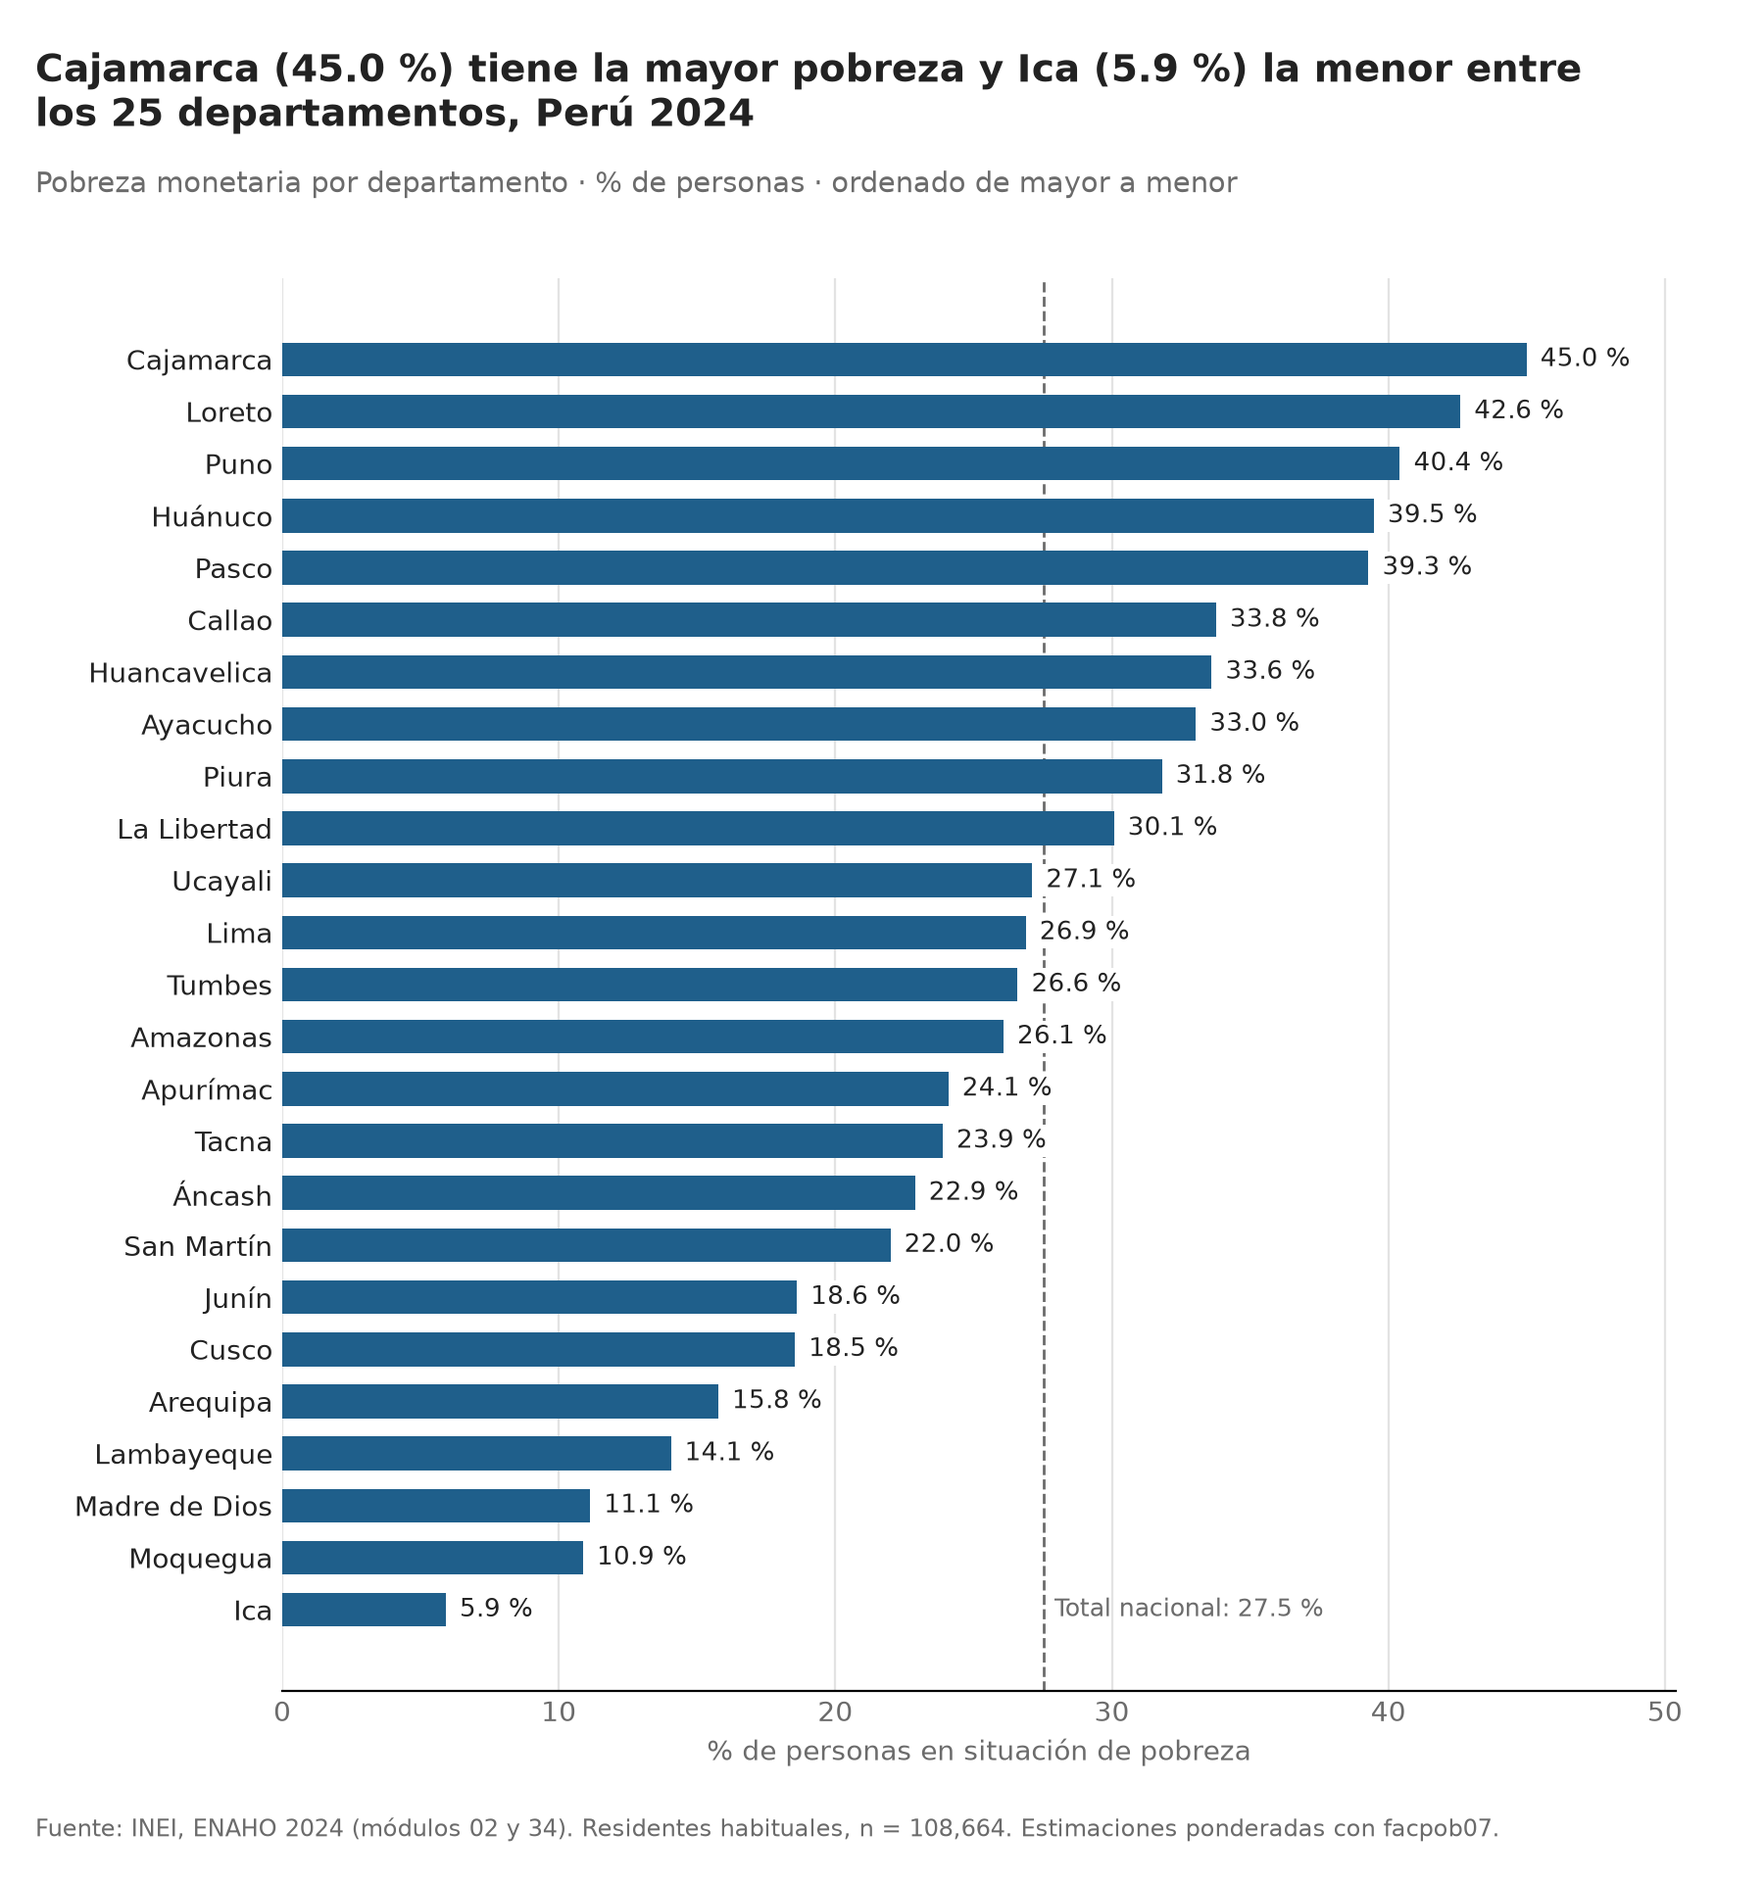
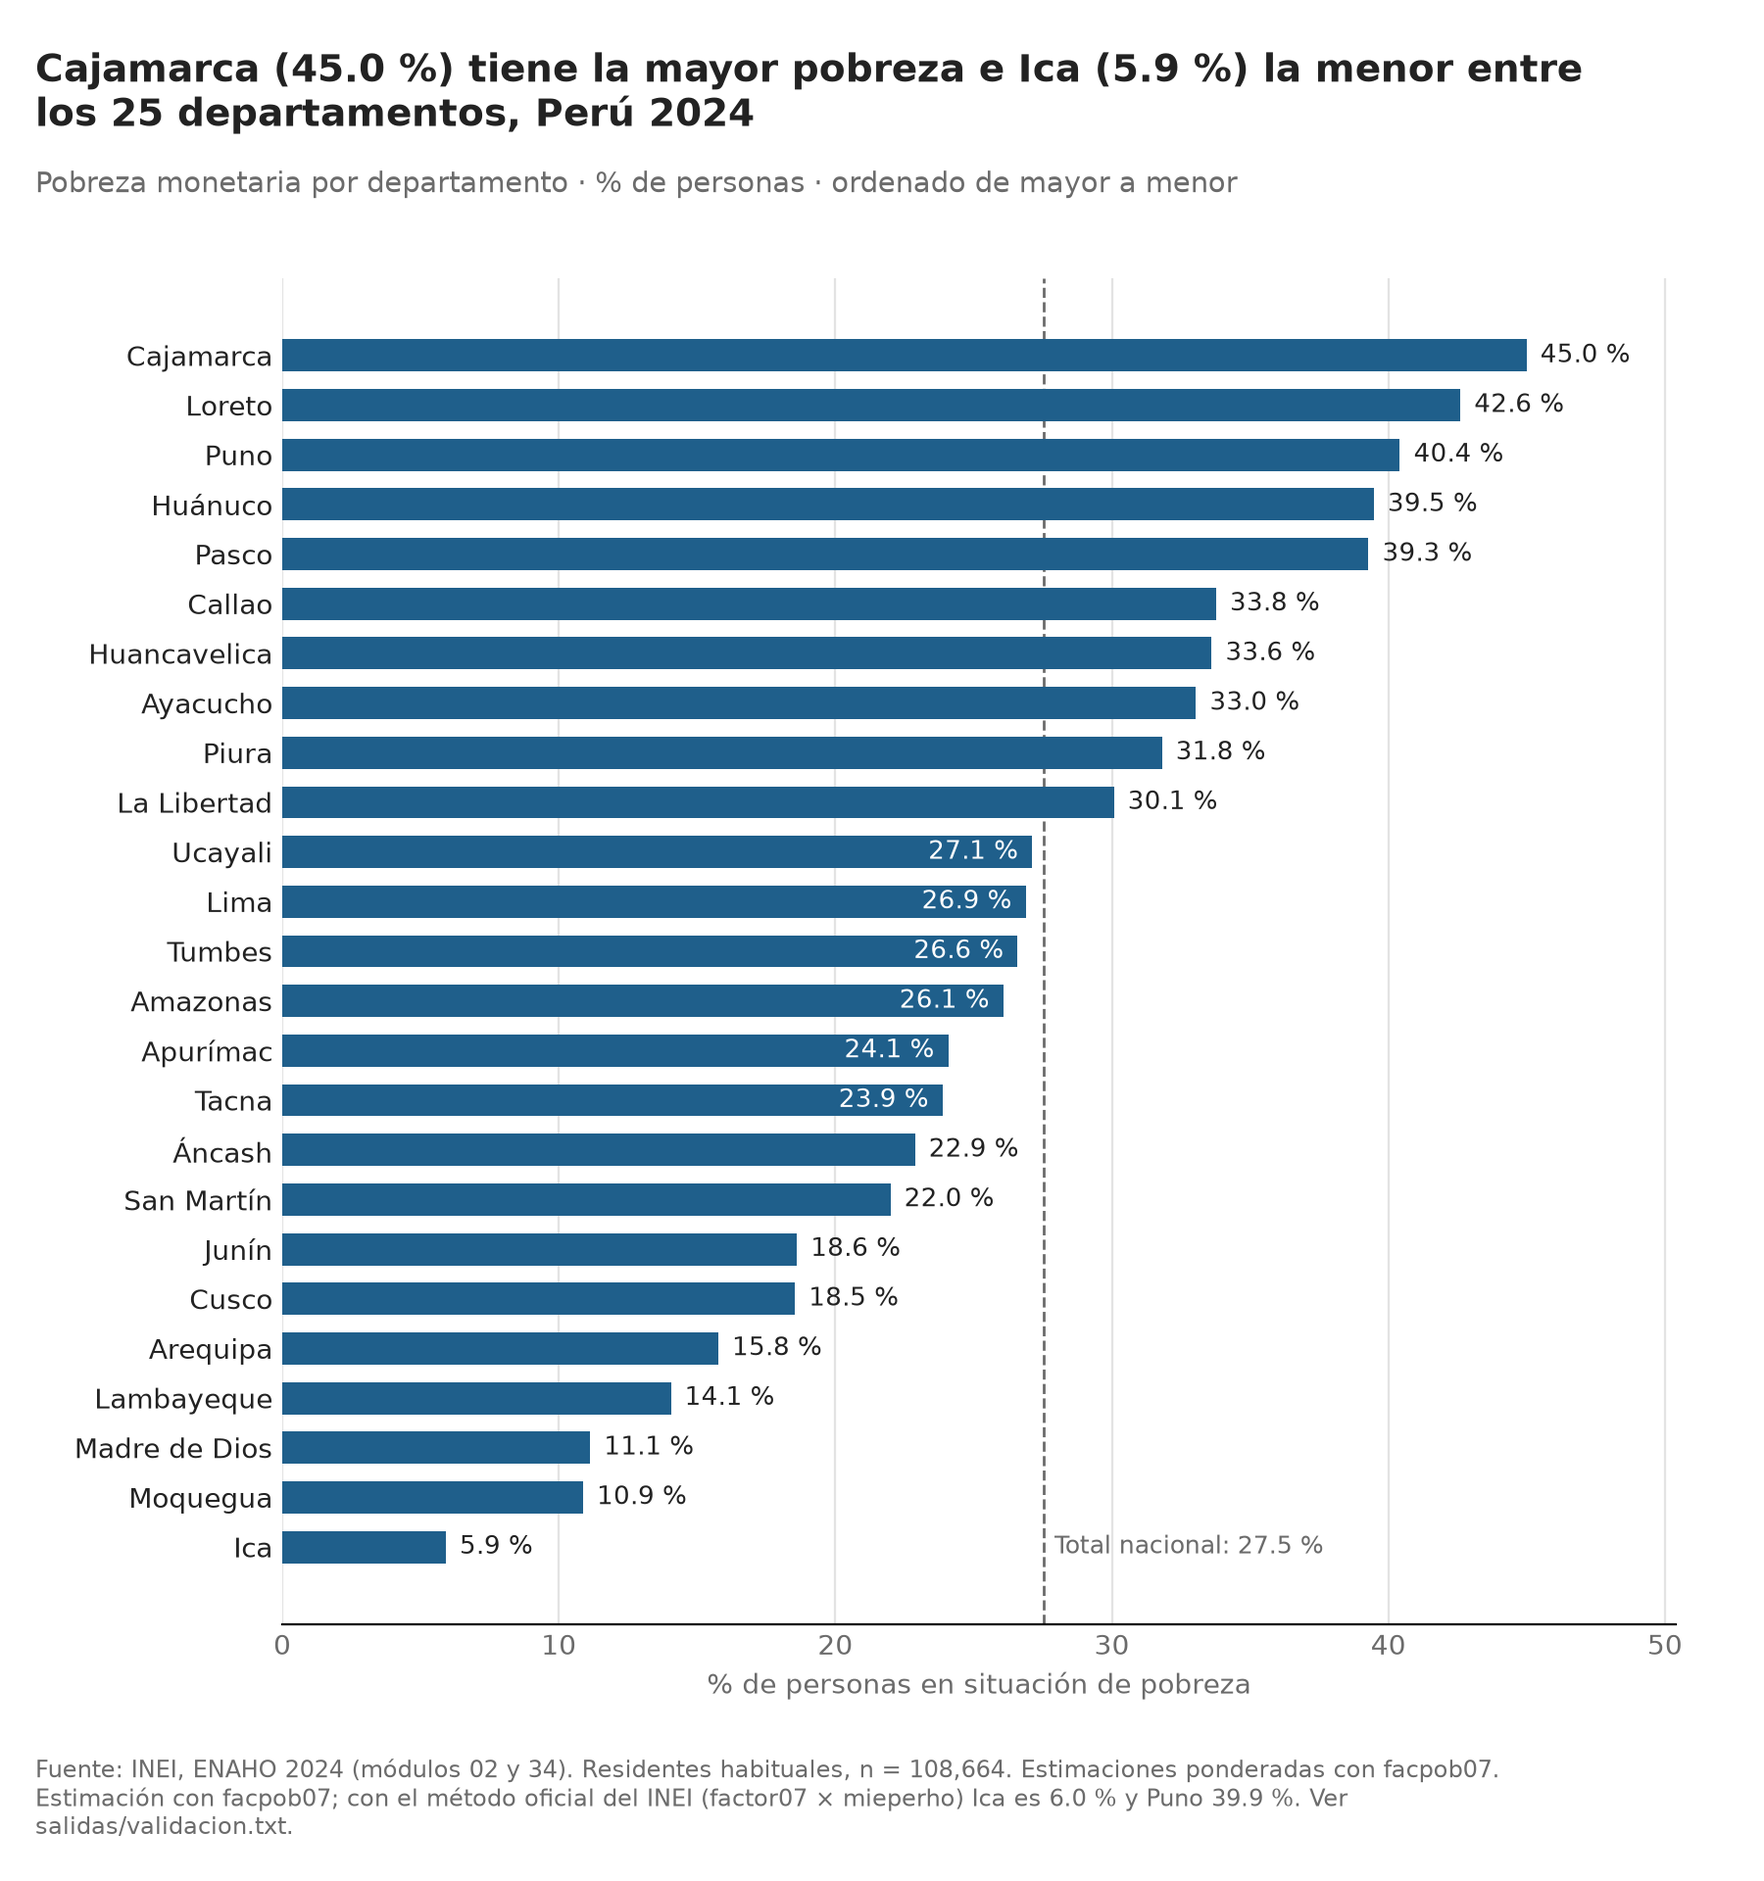
Tarea 4: figuras con n real, etiquetas sin choques, nota de método y conjunción e/y (#11)

diff --git a/tarea_4/.claude/skills/graficando-enaho/scripts/graficar.py b/tarea_4/.claude/skills/graficando-enaho/scripts/graficar.py
@@ -4,12 +4,15 @@
 
 Todas las cifras se ponderan con facpob07 (porcentaje de personas). Barras desde cero, un solo
 color, valor en cada barra, título analítico, fuente al pie. PNG a 200 dpi en --figuras.
+Ninguna etiqueta de valor queda sobre la línea del total nacional: el script lo verifica y falla si no.
 """
 from __future__ import annotations
 
 import argparse
+import re
 import sys
 import textwrap
+import unicodedata
 from pathlib import Path
 
 import matplotlib
@@ -37,8 +40,20 @@ def nombre(cod: str) -> str:
     return NOMBRES.get(n, n.title())
 
 
-def pct(x: float) -> str:
-    return f"{x:.1f}".replace(".", ",") if False else f"{x:.1f} %"
+def y_o_e(siguiente: str) -> str:
+    """'e' si la palabra siguiente empieza con 'i' o con 'hi' + consonante; en otro caso 'y'.
+
+    Regla del proyecto: Ica -> 'e Ica'; Hilda -> 'e Hilda'; Ayacucho, Huánuco -> 'y'.
+    (Casos con diptongo, como 'hielo' o 'hierro', conservan 'y'; no aparecen en nombres de departamento.)
+    """
+    s = unicodedata.normalize("NFD", siguiente.strip().lower())
+    s = "".join(c for c in s if unicodedata.category(c) != "Mn")
+    return "e" if re.match(r"(i|hi(?![aeiou]))", s) else "y"
+
+
+def nota_fuente(anio: int, n: int, extra: str = "") -> str:
+    base = f"Fuente: INEI, ENAHO {anio} (módulos 02 y 34). Residentes habituales, n = {n:,}. Estimaciones ponderadas con facpob07."
+    return f"{base} {extra}".strip()
 
 
 def grupo(df: pd.DataFrame, por: str) -> pd.Series:
@@ -71,47 +86,104 @@ def guardar(fig, ruta: Path) -> None:
     print(f"Guardado: {ruta}")
 
 
+# --- colocación de etiquetas sin choques con la línea del total nacional ---------------------------
+MARGEN_PX = 4  # separación mínima entre una etiqueta y la línea, en píxeles de pantalla
+
+
+def _choca(bbox, pos_px: float, eje: str) -> bool:
+    lo, hi = (bbox.y0, bbox.y1) if eje == "y" else (bbox.x0, bbox.x1)
+    return lo - MARGEN_PX <= pos_px <= hi + MARGEN_PX
+
+
+def poner_valor(fig, ax, texto: str, val: float, pos: float, x: float | None = None, y: float | None = None,
+                fontsize: float = 12, bold: bool = True) -> plt.Text:
+    """Escribe el valor de una barra. Prueba: fuera del extremo, dentro de la barra, o más allá de la línea.
+
+    Barras verticales: x = posición de la barra, la línea es horizontal (pos = total nacional en y).
+    Barras horizontales: y = posición de la barra, la línea es vertical (pos = total nacional en x).
+    """
+    r = fig.canvas.get_renderer()
+    vertical = x is not None
+    eje = "y" if vertical else "x"
+    pos_px = ax.transData.transform((0, pos) if vertical else (pos, 0))[1 if vertical else 0]
+    cero_px = ax.transData.transform((0, 0))[1 if vertical else 0]
+    delta = 0.8 if vertical else 0.5
+    if vertical:
+        cands = [(val + delta, "bottom", TEXTO, "fuera"), (val - delta, "top", "white", "dentro"),
+                 (max(val, pos) + 1.5 * delta, "bottom", TEXTO, "sobre la línea")]
+    else:
+        cands = [(val + delta, "left", TEXTO, "fuera"), (val - delta, "right", "white", "dentro"),
+                 (max(val, pos) + delta, "left", TEXTO, "tras la línea")]
+    for coord, alin, color, _ in cands:
+        kw = dict(ha="center", va=alin) if vertical else dict(ha=alin, va="center")
+        t = ax.text(x if vertical else coord, coord if vertical else y, texto, fontsize=fontsize,
+                    fontweight="bold" if bold else "normal", color=color, zorder=5, **kw)
+        bb = t.get_window_extent(r)
+        dentro_ok = (bb.y0 if vertical else bb.x0) >= cero_px - 1 if color == "white" else True
+        if not _choca(bb, pos_px, eje) and dentro_ok:
+            return t
+        t.remove()
+    raise RuntimeError(f"No hay posición sin choque para la etiqueta '{texto}'.")
+
+
+def verificar_sin_choques(fig, ax, etiquetas: list, pos: float, eje: str) -> None:
+    """Falla si alguna etiqueta de valor queda sobre la línea del total nacional."""
+    r = fig.canvas.get_renderer()
+    pos_px = ax.transData.transform((0, pos) if eje == "y" else (pos, 0))[1 if eje == "y" else 0]
+    malas = [t.get_text() for t in etiquetas if _choca(t.get_window_extent(r), pos_px, eje)]
+    if malas:
+        raise RuntimeError(f"Etiquetas sobre la línea del total nacional: {malas}")
+    print(f"  verificado: {len(etiquetas)} etiquetas sin choque con la línea del total nacional")
+
+
 def barras_verticales(df_vals: pd.Series, etiquetas: list[str], titulo: str, subtitulo: str, nota: str,
                       nacional: float, ruta: Path) -> None:
     fig, ax = base_figura(titulo, subtitulo, nota, 7.5, 6)
     x = np.arange(len(df_vals))
     ax.bar(x, df_vals.values, width=0.5, color=COLOR, zorder=3)
-    for xi, val in zip(x, df_vals.values):
-        ax.text(xi, val + 0.8, f"{val:.1f} %", ha="center", va="bottom", fontsize=12, fontweight="bold", color=TEXTO,
-                zorder=5, bbox=dict(facecolor="white", edgecolor="none", pad=1.5))
     ax.axhline(nacional, color=GRIS, lw=1, ls="--", zorder=2)
-    ax.text((len(df_vals) - 1) / 2, nacional + 0.3, f"Total nacional: {nacional:.1f} %", ha="center",
-            va="bottom", fontsize=9, color=GRIS, zorder=5)
-    ax.set_xlim(-0.6, len(df_vals) - 0.4)
+    # Espacio a la derecha para rotular el extremo de la línea fuera de las barras.
+    ax.set_xlim(-0.6, len(df_vals) - 1 + 1.0)
+    ax.set_ylim(0, max(df_vals.max(), nacional) * 1.25)
+    fig.canvas.draw()
+    textos = [poner_valor(fig, ax, f"{v:.1f} %", v, nacional, x=xi) for xi, v in zip(x, df_vals.values)]
+    x_rot = len(df_vals) - 1 + 0.4
+    rot = ax.text(x_rot, nacional + 0.4, f"Total nacional\n{nacional:.1f} %", ha="left", va="bottom",
+                  fontsize=9, color=GRIS, zorder=5, linespacing=1.1)
     ax.set_xticks(x, etiquetas, fontsize=11, color=TEXTO)
-    ax.set_ylim(0, max(df_vals.max(), nacional) * 1.2)
     ax.set_ylabel("% de personas en situación de pobreza", fontsize=10, color=GRIS)
     ax.yaxis.grid(True, color=REJILLA, zorder=0)
     ax.tick_params(axis="y", colors=GRIS, length=0)
     ax.tick_params(axis="x", length=0)
     ax.spines["left"].set_visible(False)
+    fig.canvas.draw()
+    verificar_sin_choques(fig, ax, textos, nacional, "y")
+    r = fig.canvas.get_renderer()
+    rb = rot.get_window_extent(r)
+    if any(rb.overlaps(p.get_window_extent(r)) for p in ax.patches):
+        raise RuntimeError("El rótulo 'Total nacional' se superpone con una barra.")
     guardar(fig, ruta)
 
 
-def grafico_area(df, anio, nota, nacional, carpeta):
+def grafico_area(df, anio, carpeta, nacional):
     urb = df["urbano"]
     vals = pd.Series({"Urbano": tasa_ponderada(df.loc[urb, "pobre"], df.loc[urb, "facpob07"]),
                       "Rural": tasa_ponderada(df.loc[~urb, "pobre"], df.loc[~urb, "facpob07"])})
     dif = vals["Rural"] - vals["Urbano"]
     titulo = f"La pobreza rural ({vals['Rural']:.1f} %) supera en {dif:.1f} puntos porcentuales a la urbana ({vals['Urbano']:.1f} %), Perú {anio}"
-    barras_verticales(vals, list(vals.index), titulo.replace(", Perú", ",\nPerú"),
+    barras_verticales(vals, list(vals.index), titulo,
                       "Pobreza monetaria por área de residencia · % de personas · urbano = estrato 1 a 5",
-                      nota, nacional, carpeta / f"pobreza_urbano_rural_{anio}.png")
+                      nota_fuente(anio, len(df)), nacional, carpeta / f"pobreza_urbano_rural_{anio}.png")
 
 
-def grafico_sexo(df, anio, nota, nacional, carpeta, sexo_de):
+def grafico_sexo(df, anio, carpeta, nacional, sexo_de):
     if sexo_de == "jefe":
         jefes = df.loc[df["p203"] == 1, ["conglome", "vivienda", "hogar", "p207"]].rename(columns={"p207": "sexo_jefe"})
         d = df.merge(jefes, on=["conglome", "vivienda", "hogar"], how="inner", validate="m:1")
         col, etiq = "sexo_jefe", ("Jefe hombre", "Jefa mujer")
         frase = ("las personas en hogares con jefe hombre", "las personas en hogares con jefa mujer")
-        sub = (f"Pobreza monetaria según el sexo de quien jefatura el hogar · % de personas · "
-               f"n = {len(d):,} residentes en hogares con jefe/a residente habitual")
+        sub = ("Pobreza monetaria según el sexo de quien jefatura el hogar · % de personas · "
+               "solo hogares cuyo jefe o jefa es residente habitual")
         arch = f"pobreza_sexo_jefe_hogar_{anio}.png"
     else:
         d, col, etiq = df, "p207", ("Hombres", "Mujeres")
@@ -121,41 +193,57 @@ def grafico_sexo(df, anio, nota, nacional, carpeta, sexo_de):
     g = grupo(d, col)
     vals = pd.Series({etiq[0]: g[1], etiq[1]: g[2]})
     dif = vals.iloc[1] - vals.iloc[0]
-    if abs(dif) < 1:
-        titulo = (f"La pobreza apenas difiere entre {frase[0].split(' ', 1)[0] if sexo_de == 'persona' else 'hogares'} "
-                  f"según sexo: {vals.iloc[0]:.1f} % frente a {vals.iloc[1]:.1f} % (diferencia de {abs(dif):.1f} pp), Perú {anio}")
-        if sexo_de == "persona":
-            titulo = (f"La pobreza apenas difiere entre hombres ({vals.iloc[0]:.1f} %) y mujeres ({vals.iloc[1]:.1f} %): "
-                      f"{abs(dif):.1f} puntos porcentuales, Perú {anio}")
+    if abs(dif) < 1 and sexo_de == "persona":
+        titulo = (f"La pobreza apenas difiere entre hombres ({vals.iloc[0]:.1f} %) y mujeres ({vals.iloc[1]:.1f} %): "
+                  f"{abs(dif):.1f} puntos porcentuales, Perú {anio}")
+    elif abs(dif) < 1:
+        titulo = (f"La pobreza apenas difiere según el sexo de la jefatura del hogar: {vals.iloc[0]:.1f} % con jefe hombre "
+                  f"y {vals.iloc[1]:.1f} % con jefa mujer, Perú {anio}")
     else:
         k = 1 if dif > 0 else 0
         titulo = (f"La pobreza afecta más a {frase[k]} ({vals.iloc[k]:.1f} %) que a {frase[1 - k]} "
                   f"({vals.iloc[1 - k]:.1f} %): {abs(dif):.1f} puntos porcentuales, Perú {anio}")
-    barras_verticales(vals, list(vals.index), titulo, sub, nota, nacional, carpeta / arch)
+    # n real de cada gráfico: en el de jefatura son solo los residentes de hogares con jefe/a residente.
+    barras_verticales(vals, list(vals.index), titulo, sub, nota_fuente(anio, len(d)), nacional, carpeta / arch)
 
 
-def grafico_departamento(df, anio, nota, nacional, carpeta):
+def nota_departamento(anio: int, n: int, g: pd.Series, referencias: Path) -> str:
+    """Nota de fuente con el contraste del método oficial; las cifras salen del CSV de referencia."""
+    extra = ""
+    ref_csv = referencias / "pobreza_departamento_2024.csv"
+    if ref_csv.exists():
+        ref = pd.read_csv(ref_csv, dtype={"ccdd": str}).set_index("ccdd")["pobreza_pct"].reindex(g.index)
+        menor = g.idxmin()
+        dif = (g - ref).abs().drop(menor)
+        mayor = dif.idxmax()
+        extra = (f"Estimación con facpob07; con el método oficial del INEI (factor07 × mieperho) {nombre(menor)} es "
+                 f"{ref[menor]:.1f} % {y_o_e(nombre(mayor))} {nombre(mayor)} {ref[mayor]:.1f} %. Ver salidas/validacion.txt.")
+    return nota_fuente(anio, n, extra)
+
+
+def grafico_departamento(df, anio, carpeta, nacional, referencias):
     g = grupo(df, "departamento").sort_values(ascending=False)
     etiquetas = [nombre(c) for c in g.index]
-    fig, ax = base_figura(
-        f"{etiquetas[0]} ({g.iloc[0]:.1f} %) tiene la mayor pobreza y {etiquetas[-1]} ({g.iloc[-1]:.1f} %) la menor entre los 25 departamentos, Perú {anio}",
-        "Pobreza monetaria por departamento · % de personas · ordenado de mayor a menor",
-        nota, 9, 9.6, left=0.16)
+    titulo = (f"{etiquetas[0]} ({g.iloc[0]:.1f} %) tiene la mayor pobreza {y_o_e(etiquetas[-1])} {etiquetas[-1]} "
+              f"({g.iloc[-1]:.1f} %) la menor entre los 25 departamentos, Perú {anio}")
+    fig, ax = base_figura(titulo, "Pobreza monetaria por departamento · % de personas · ordenado de mayor a menor",
+                          nota_departamento(anio, len(df), g, referencias), 9, 9.6, left=0.16)
     y = np.arange(len(g))
     ax.barh(y, g.values, height=0.65, color=COLOR, zorder=3)
-    for yi, val in zip(y, g.values):
-        ax.text(val + 0.5, yi, f"{val:.1f} %", va="center", ha="left", fontsize=9.5, color=TEXTO, zorder=5,
-                bbox=dict(facecolor="white", edgecolor="none", pad=1.2))
     ax.axvline(nacional, color=GRIS, lw=1, ls="--", zorder=2)
-    ax.text(nacional + 0.4, len(g) - 1, f"Total nacional: {nacional:.1f} %", fontsize=9, color=GRIS, va="center")
+    ax.set_xlim(0, g.max() * 1.12)
     ax.set_yticks(y, etiquetas, fontsize=10, color=TEXTO)
     ax.invert_yaxis()
-    ax.set_xlim(0, g.max() * 1.12)
+    fig.canvas.draw()
+    textos = [poner_valor(fig, ax, f"{v:.1f} %", v, nacional, y=yi, fontsize=9.5, bold=False) for yi, v in zip(y, g.values)]
+    ax.text(nacional + 0.4, len(g) - 1, f"Total nacional: {nacional:.1f} %", fontsize=9, color=GRIS, va="center")
     ax.set_xlabel("% de personas en situación de pobreza", fontsize=10, color=GRIS)
     ax.xaxis.grid(True, color=REJILLA, zorder=0)
     ax.tick_params(axis="x", colors=GRIS, length=0)
     ax.tick_params(axis="y", length=0)
     ax.spines["left"].set_visible(False)
+    fig.canvas.draw()
+    verificar_sin_choques(fig, ax, textos, nacional, "x")
     guardar(fig, carpeta / f"pobreza_departamento_{anio}.png")
 
 
@@ -166,6 +254,7 @@ def main() -> int:
     ap.add_argument("--anio", type=int, default=2024)
     ap.add_argument("--base", type=Path, default=None)
     ap.add_argument("--figuras", type=Path, default=Path("figuras"))
+    ap.add_argument("--referencias", type=Path, default=Path("referencias"))
     a = ap.parse_args()
     base = a.base or Path("salidas") / f"personas_{a.anio}.parquet"
     if not base.exists():
@@ -174,13 +263,12 @@ def main() -> int:
     df = pd.read_parquet(base)
     df["departamento"] = df["departamento"].astype(str)
     nacional = tasa_ponderada(df["pobre"], df["facpob07"])
-    nota = f"Fuente: INEI, ENAHO {a.anio} (módulos 02 y 34). Residentes habituales, n = {len(df):,}. Estimaciones ponderadas con facpob07."
     if a.grafico in ("area", "todos"):
-        grafico_area(df, a.anio, nota, nacional, a.figuras)
+        grafico_area(df, a.anio, a.figuras, nacional)
     if a.grafico in ("sexo", "todos"):
-        grafico_sexo(df, a.anio, nota, nacional, a.figuras, a.sexo_de)
+        grafico_sexo(df, a.anio, a.figuras, nacional, a.sexo_de)
     if a.grafico in ("departamento", "todos"):
-        grafico_departamento(df, a.anio, nota, nacional, a.figuras)
+        grafico_departamento(df, a.anio, a.figuras, nacional, a.referencias)
     return 0
 
 
